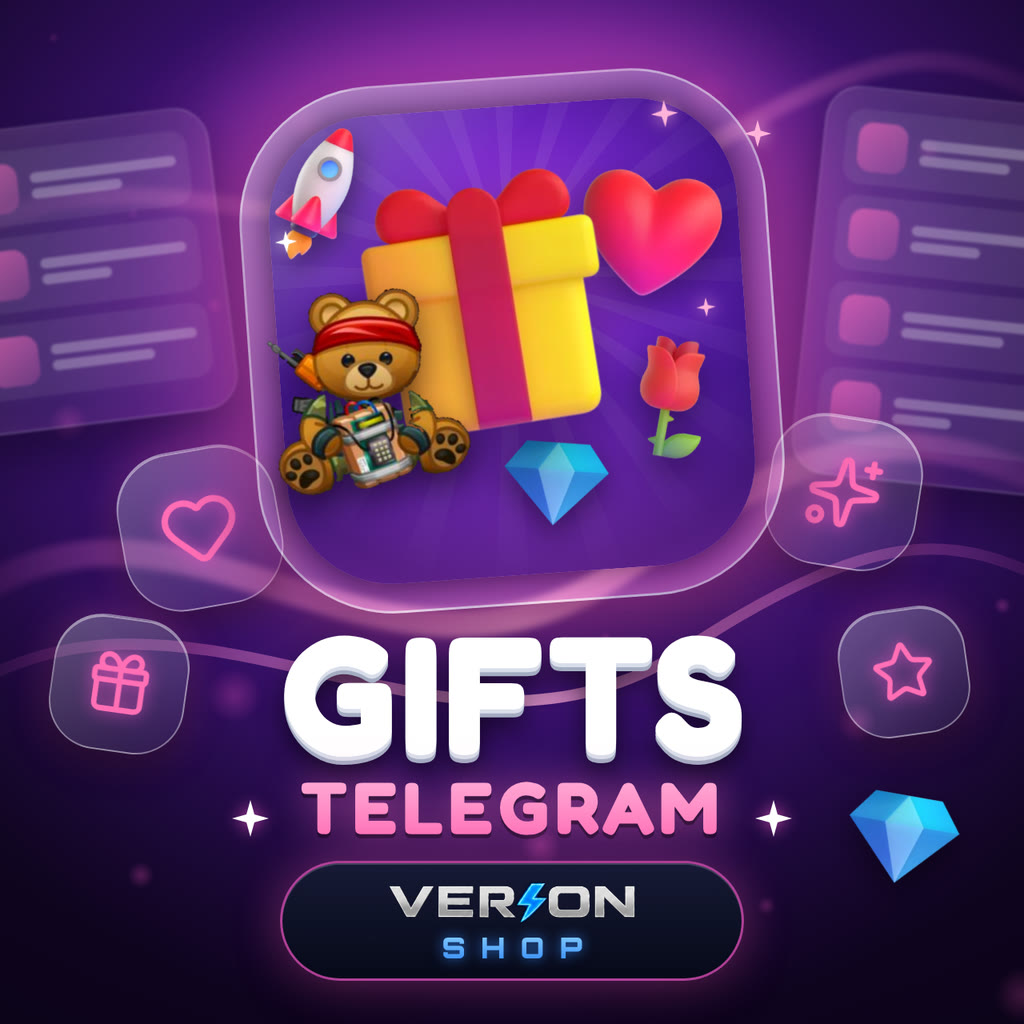
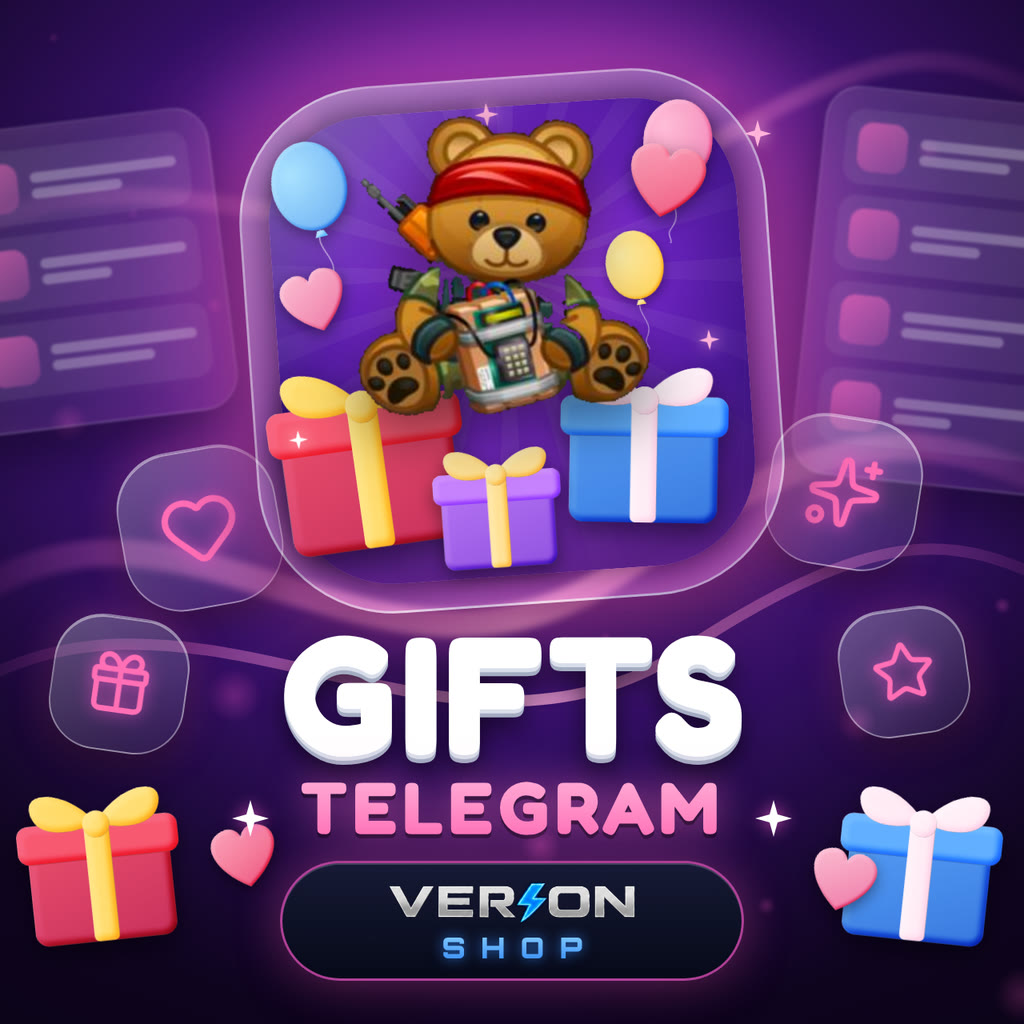
v3.26: muqovalarda emoji o'rniga haqiqiy ayiqcha va o'zim chizgan 3D sovg'alar
Claude-Session: https://claude.ai/code/session_01CbtuoV2biNfcxKy98shqWf

Changed region(s): [[0.25, 0.0938, 0.7188, 0.5625], [0.0, 0.75, 0.2812, 0.9375], [0.7812, 0.75, 1.0, 0.9375]]

diff --git a/README.md b/README.md
@@ -369,7 +369,7 @@ Ko'rinishi ilova mavzusidan qat'i nazar doim to'q: grafit fon, Unbounded (sarlav
 - **v3.19 — bosh sahifa kartalari «tirik»:** har bir bo'lim kartasida (a) rasm juda sekin yaqinlashadi, (b) 12 soniyalik aylanishda navbat bilan bitta kartada yumshoq och-ko'k yorug'lik chizig'i aylanib chiqadi (hamma kartada bir xil rang), (c) pastda yashil «Sotib olish» tugmasi (`ctaBtn()`: yaltirash, oq doira ichida harakatlanuvchi strelka, yonayotgan kartada halqa), (d) bosilganda bosilgan joydan to'lqin (`pripple`), (e) mahsulot soni yonida yashil «mavjud» nuqtasi. Nakrutka kartasida faqat mahsulot soni (yuklanguncha «…», xato bo'lsa eski izoh; `NkHomeFail`). Hammasi faqat `transform`/`opacity`; «Kamroq harakat» (`data-reduce-motion`), `prefers-reduced-motion` va `.lite` rejimida o'chadi (ilgari bu ro'yxat keyingi `@media` qoidasi bilan qo'shilib qolib, sozlama ishlamas edi — tuzatildi). Bo'lim kartalarining rasmlari (1024×1024) admin paneldan ✏ orqali yuklanadi.
 - **v3.20 — Telegram Premium: kimga olishni tanlash + «Balans yetarli emas» oynasi:** `fulfill:"fragment_premium"` mahsulotlari endi alohida oqim (`openPremiumBuy`) orqali sotiladi: tepada Premium kartasi, `@USERNAME` + «Tekshirish» (`/api/fragment/check-user`, «O'zimga» tugmasi), tekshirilgach yashil karta (ism, @username, «O'zgartirish»); qabul qiluvchida Premium allaqachon bo'lsa — sariq ogohlantirish va xarid bloklanadi; paketlar (3/6/12 oy) kartochkalarda tanlanadi. Xarid yangi `POST /api/buy-premium {itemId, username}` orqali: eski `/api/buy` Premium'ni faqat xaridorning o'ziga yuborar edi. Pul `reserveBalance` bilan band qilinadi, Fragment aniq rad etsa qaytariladi, aloqa uzilsa buyurtma «kutilmoqda» bo'ladi; «allaqachon Premium» javobi `409 already_premium` (adminga signal ketmaydi). Telegram bo'limida bir nechta Premium paketi BITTA «Telegram Premium» kartasiga jamlanadi (`productGridHTML`). Balans yetmasa hamma xarid oqimlarida (Premium, Stars, sovg'a, oddiy mahsulot) bitta oyna chiqadi (`openNeedBalance`): mahsulot narxi / balans / yetishmaydi + pastda «Yopish» va «Balansni to'ldirish» (to'lov sahifasi yetishmagan summa bilan ochiladi). Mahsulot oynalari endi to'liq ekranli sahifa (`openSheet(inner,backFn,{full:true})`: tepada «Orqaga», pastda qotgan harakat paneli `.fbar`): oddiy mahsulot, tasdiqlash, Stars, sovg'a, Premium va o'yin tasdiqlash. «Balans yetarli emas» endi mustaqil qatlam (`#nbOv`, `openNeedBalance(price)`): sahifa ostida joyida qoladi; oddiy mahsulot, o'yin, Stars, sovg'a, Premium, Nakrutka, Steam, virtual raqam va skinlarda bir xil chiqadi. Stars, Premium va sovg'ada «O'zimga» ingichka tugma (`.selfBtn`, `selfBtnHTML`). Premium paketlari katalogda bo'lishi uchun admin «Oddiy mahsulot» → «Yetkazish turi: Avto-Premium (Fragment)» bilan 3/6/12 oylik mahsulot qo'shadi.
 - **v3.22 — tayyor mahsulot muqovalari:** `assets/cover-*.jpg` (1024×1024; Stars, Premium, Sovg'alar, Virtual raqam, Steam, Gemini Pro, CS2, Dota 2, Rust) — bitta uslubda (shisha plitka, 3D markaziy narsa, ikki rangli sarlavha, pastda VERION SHOP). Admin rasm qo'ymagan joylarda ilova ularni o'zi ko'rsatadi: Virtual raqam, Steam, CS2/Dota 2/Rust kartalari (`DEF_COVER`, `cardImg()`; admin qo'ygan rasm doim ustun — `cardImgSet()`), Stars (`fragment_stars_custom`) va Premium (`fragment_premium`) mahsulot plitkasi (`tileHTML`). Admin qo'ygan rasm bo'lsa o'sha ko'rinadi: yangi muqovani almashtirish uchun mahsulotdagi ✏ → rasm. Muqovalar ilova ichidagi haqiqiy ekran (Virtual raqam telefon ichida), rasmiy Stars/Steam/Gemini belgilari va 3D emoji bilan yasalgan, tashqi servislarsiz.
-- **v3.23 — bo'lim kartalari va /start rasmi yangi uslubda:** `assets/cover-cat-{obuna,oyinlar,telegram,nakrutka}.jpg` (haqiqiy ilova belgilari shisha plitkada) — bosh sahifadagi bo'lim kartasiga admin rasm qo'ymagan bo'lsa shu chiqadi (`catDefCover`); admin qo'ygan rasm ustun. Eski rasm (matni kesilib qolgan) o'rniga yangisini qo'yish: Mahsulotlar → «🗂 Bo'limlar: nomi va rasmi» → rasm yonidagi ✕ (tayyor muqova o'zi chiqadi) yoki `cover-cat-*.jpg` ni yuklash. `assets/start-banner.png` (botdagi /start rasmi) shu uslubga o'tkazildi (server uni `size-mtime` bo'yicha qayta yuklaydi). Ismi emoji bilan boshlangan foydalanuvchining avatar harfi «�» bo'lib chiqmaydi (`firstCh`). Muqovalar skinlar bilan bir xil yasash usulida: lenta endi sarlavhani kesib o'tmaydi. Mahsulot sahifasining tepasidagi rasm endi kesilmaydi: butun muqova ko'rinadi, orqasida uning xira nusxasi (`.bgb`). Premium muqovasi rasmiy Telegram Premium yulduzi shaklida (swoosh) va rasmiy binafsha→pushti gradient bilan, Sovg'alar muqovasida haqiqiy Telegram sovg'asi (ayiqcha), Stars'da rasmiy sharlar uslubi. Steam va Gemini muqovalari rasmiy belgilar bilan (Steam: ko'k gradientli disk + oq belgi, `assets/steam.svg` — Steam sahifasining tepasida ham shu; Gemini: rasmiy shakl va ranglar). Botning standart /start matni tuzilgan ro'yxatga o'tkazildi (admin o'z matnini yozgan bo'lsa — o'sha ishlaydi).
+- **v3.23 — bo'lim kartalari va /start rasmi yangi uslubda:** `assets/cover-cat-{obuna,oyinlar,telegram,nakrutka}.jpg` (haqiqiy ilova belgilari shisha plitkada) — bosh sahifadagi bo'lim kartasiga admin rasm qo'ymagan bo'lsa shu chiqadi (`catDefCover`); admin qo'ygan rasm ustun. Eski rasm (matni kesilib qolgan) o'rniga yangisini qo'yish: Mahsulotlar → «🗂 Bo'limlar: nomi va rasmi» → rasm yonidagi ✕ (tayyor muqova o'zi chiqadi) yoki `cover-cat-*.jpg` ni yuklash. `assets/start-banner.png` (botdagi /start rasmi) shu uslubga o'tkazildi (server uni `size-mtime` bo'yicha qayta yuklaydi). Ismi emoji bilan boshlangan foydalanuvchining avatar harfi «�» bo'lib chiqmaydi (`firstCh`). Muqovalar skinlar bilan bir xil yasash usulida: lenta endi sarlavhani kesib o'tmaydi. Mahsulot sahifasining tepasidagi rasm endi kesilmaydi: butun muqova ko'rinadi, orqasida uning xira nusxasi (`.bgb`). Premium muqovasi rasmiy Telegram Premium yulduzi shaklida (swoosh) va rasmiy binafsha→pushti gradient bilan, Sovg'alar muqovasida haqiqiy Telegram sovg'asi (ayiqcha), Stars'da rasmiy sharlar uslubi. Steam va Gemini muqovalari rasmiy belgilar bilan (Steam: ko'k gradientli disk + oq belgi, `assets/steam.svg` — Steam sahifasining tepasida ham shu; Gemini: rasmiy shakl va ranglar). Muqovalardan emoji olib tashlandi: pastki burchaklarda haqiqiy Telegram sovg'a ayiqchasi va o'zim chizgan 3D sovg'a qutilari/yuraklar/sharlar/suhbat bulutlari (SVG shakl + yorug'lik filtri), Gemini'da rasmiy yulduzcha nusxalari. Botning standart /start matni tuzilgan ro'yxatga o'tkazildi (admin o'z matnini yozgan bo'lsa — o'sha ishlaydi).
 - **v3.24 — xarid oynalari: har bir mahsulotga mos, ixcham va aniq dizayn:** umumiy bo'laklar (`pheadHTML` ixcham sarlavha: kichik rasm + nom + narx/belgi, `pstepHTML` raqamli bosqichlar, `descHTML` tartibli tavsif, `.rcpt` chek kartasi). Oddiy mahsulot/obuna: tavsif qismlarga bo'linadi (✅ ro'yxat, ⚠ sariq ogohlantirish, 📌 eslatma), qolgan soni yashil belgi. Stars: 1) qabul qiluvchi 2) miqdor + tez tanlov tugmalari (50…2500, narxi bilan). Premium: paketlar qator bo'lib, oyiga narxi va tejash foizi (−22%) bilan, sarlavhada rasmiy Premium muqovasi. Sovg'a: 1) kimga 2) sharh; sovg'alar sahifasida «Sotib olish» pastki menyu ustida qotib turadi. Tasdiqlash oynalari (oddiy mahsulot va o'yin) bitta «chek» ko'rinishida: narx, balans, qoladi/yetmaydi. O'yin paketlarida «2x»/«HIT» belgisi va nom kesilmaydi. Nakrutka buyurtmasi to'liq ekran (havola, miqdor, jami, pastda tugma). Steam sahifasi ixcham (summa tugmalari birinchi ekranda). Mantiq va identifikatorlar (#stBuy, #pmBuy, #afterLine, data-pk…) o'zgarmagan.
 - **Profil:** yon panel — avatar (80px), ism, @username · ID, ko'k balans kartasi va «Balansni to'ldirish», menyu (Profil, Buyurtmalar — jarayondagilar soni bilan, Sevimli skinlar, Steam savdo takliflari, Qanday ishlaydi?, Qo'llab-quvvatlash), «Asosiy do'konga qaytish»; asosiy qism — statistika (Xaridlar / Yetkazildi / Sevimli), jami xarid summasi, «Steam trade havola» bloki (havola maydoni, nusxalash, maslahat, «Havolani kiritish/o'zgartirish»), Steam akkaunt kartasi, Steam Guard eslatmalari.
 - **Buyurtmalar:** xulosa satri (jami xaridlar, summa, jarayondagilar), tablar guruhi (Hammasi / Jarayonda / Yetkazildi / Bekor — soni bilan), xarid kartochkalari (rasm, holat kodi, nom, #raqam · o'yin · sana · float, narx, holat belgisi — jarayonda ko'k, mijozdan harakat kutilsa yoki trade-lock'da sariq, yetkazilgan yashil, bekor qizil; izoh va «Taklifni ochish» / «Bekor qilish (3%)»). Kartochka bosilsa — **buyurtma tafsilotlari** oynasi: 4:3 rasm, nom, ko'k narx, rangli holat izohi, «Steam'da qabul qilish», ma'lumotlar jadvali (holat, sana, o'yin, holati, float, Steam taklif raqami).
